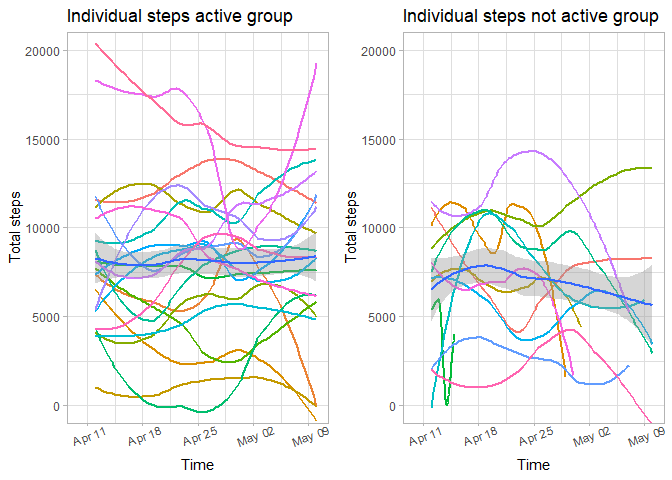
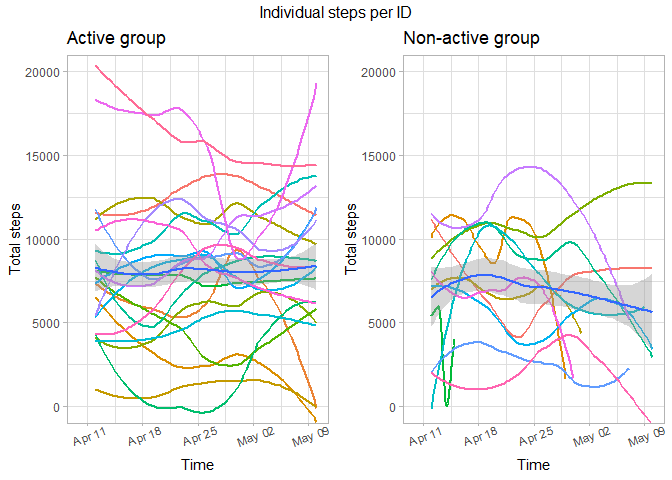
uploading final version of case study

diff --git a/README.md b/README.md
@@ -145,43 +145,43 @@ the d\_activity data frame. We will test this by using the identical
 function:
 
 ``` r
-identical(d_activity[['Calories']],d_calories[['Calories']])
+identical(as.integer(d_activity[['Calories']]),d_calories[['Calories']])
 ```
 
-    ## [1] FALSE
+    ## [1] TRUE
 
 ``` r
-identical(d_activity[['TotalSteps']],d_steps[['StepTotal']])
+identical(as.integer(d_activity[['TotalSteps']]),d_steps[['StepTotal']])
 ```
 
-    ## [1] FALSE
+    ## [1] TRUE
 
 After finding out we don’t need to use the smaller data frames, we
 compare all the columns in the d\_intensities data frame:
 
 ``` r
-identical(d_activity[['SedentaryMinutes']],d_intensities[['SedentaryMinutes']])
+identical(as.integer(d_activity[['SedentaryMinutes']]),d_intensities[['SedentaryMinutes']])
 ```
 
-    ## [1] FALSE
+    ## [1] TRUE
 
 ``` r
-identical(d_activity[['LightlyActiveMinutes']],d_intensities[['LightlyActiveMinutes']])
+identical(as.integer(d_activity[['LightlyActiveMinutes']]),d_intensities[['LightlyActiveMinutes']])
 ```
 
-    ## [1] FALSE
+    ## [1] TRUE
 
 ``` r
-identical(d_activity[['FairlyActiveMinutes']],d_intensities[['FairlyActiveMinutes']])
+identical(as.integer(d_activity[['FairlyActiveMinutes']]),d_intensities[['FairlyActiveMinutes']])
 ```
 
-    ## [1] FALSE
+    ## [1] TRUE
 
 ``` r
-identical(d_activity[['VeryActiveMinutes']],d_intensities[['VeryActiveMinutes']])
+identical(as.integer(d_activity[['VeryActiveMinutes']]),d_intensities[['VeryActiveMinutes']])
 ```
 
-    ## [1] FALSE
+    ## [1] TRUE
 
 ``` r
 identical(d_activity[['SedentaryActiveDistance']],d_intensities[['SedentaryActiveDistance']])
@@ -313,13 +313,13 @@ If we would only look at the average, than this plot confirms that
 people are also burning less calories. And since Calories would be
 burned for all types of actives, **this might indicate that people
 simply stop doing as much exercise after a while**. This might be an
-important measure for the company to know. However, when we look at the
-individual data points, we see something odd. It seems like the last
-day, everyone is doing less. This could be cause by several things when
-collecting data, including having the same time frame (instead of 24h
-maybe only data until 12Pm was used) or maybe it was a holiday (people
-might move different). To be clear we will plot the same data without
-the last day.
+important measure for the company to know. **However, when we look at
+the individual data points, we see something odd.** It seems like the
+last day, everyone is doing less. This could be cause by several things
+when collecting data, including having the same time frame (instead of
+24h maybe only data until 12Pm was used) or maybe it was a holiday
+(people might move different). To be clear we will plot the same data
+without the last day.
 
 ### Excluding last dates
 
@@ -434,10 +434,10 @@ for(i in 1:nrow(d_activity)) {
   ii<-ii+1}
 }
 
-n_distinct(active_people)
+length(active_people)
 ```
 
-    ## [1] 1
+    ## [1] 21
 
 ``` r
 #using the ID of the active people to create new variables
@@ -448,8 +448,11 @@ n_distinct(activity_not_in_use$Id)
 
     ## [1] 12
 
-Now that we have all the people that are still active, we can look at
-their data to see if it’s different from everyone grouped together.
+The outcome here says that in total we have 33 people, of those 33 21
+have collected data until the end and only 12 have not completed the
+whole collection. Now that we have all the people that are still active,
+we can look at their data to see if it’s different from everyone grouped
+together.
 
 ### Comparing 2 groups on group level
 
@@ -589,7 +592,7 @@ plot7<-ggplot(data=activity_in_use)+
   theme_light()+
   theme(axis.text.x = element_text(angle = 20),legend.position = "none")+
   xlim(as.Date('2016-04-10'), as.Date('2016-05-10'))+
-  ggtitle("Individual steps active group")+
+  ggtitle("Active group")+
   xlab("Time")+
   ylab("Total steps")
 
@@ -601,11 +604,11 @@ plot8<-ggplot(data=activity_not_in_use)+
   theme_light()+
   theme(axis.text.x = element_text(angle = 20),legend.position = "none")+
   xlim(as.Date('2016-04-10'), as.Date('2016-05-10'))+
-  ggtitle("Individual steps not active group")+
+  ggtitle("Non-active group")+
   xlab("Time")+
   ylab("Total steps")
 
-grid.arrange(plot7, plot8, ncol=2)
+grid.arrange(plot7, plot8, ncol=2, top="Individual steps per ID")
 ```
 
 ![](Bellabeat-Case-Study-with-R_files/figure-gfm/comparing%20both%20groups%20on%20individual%20level%20separated-1.png)<!-- -->
@@ -626,7 +629,7 @@ plot9<-ggplot(data=activity_in_use)+
   theme(axis.text.x = element_text(angle = 20),legend.position = "none")+
   xlim(as.Date('2016-04-10'), as.Date('2016-05-11'))+
   coord_cartesian(ylim = c(0, 400))+
-  ggtitle("Light activity, active people")+
+  ggtitle("Active people")+
   xlab("Time")+
   ylab("Minutes of activity")
 
@@ -638,7 +641,7 @@ plot10<-ggplot(data=activity_not_in_use)+
   theme(legend.position = "none")+
   xlim(as.Date('2016-04-10'), as.Date('2016-05-11'))+
   coord_cartesian(ylim = c(0, 400))+
-  ggtitle("Light activity, not-active people")+
+  ggtitle("Non-active people")+
   xlab("Time")+
   ylab("Minutes of activity")
 
@@ -649,7 +652,7 @@ plot11<-ggplot(data=activity_in_use)+
   theme(axis.text.x = element_text(angle = 20),legend.position = "none")+
   xlim(as.Date('2016-04-10'), as.Date('2016-05-11'))+
   coord_cartesian(ylim = c(0, 90))+
-  ggtitle("Medium activity, active people")+
+  ggtitle("Active people")+
   xlab("Time")+
   ylab("Minutes of activity")
 
@@ -661,7 +664,7 @@ plot12<-ggplot(data=activity_not_in_use)+
   theme(legend.position = "none")+
   xlim(as.Date('2016-04-10'), as.Date('2016-05-11'))+
   coord_cartesian(ylim = c(0, 90))+
-  ggtitle("Medium activity, not-active people")+
+  ggtitle("Non-active people")+
   xlab("Time")+
   ylab("Minutes of activity")
 
@@ -672,7 +675,7 @@ plot13<-ggplot(data=activity_in_use)+
   theme(axis.text.x = element_text(angle = 20),legend.position = "none")+
   xlim(as.Date('2016-04-10'), as.Date('2016-05-11'))+
   coord_cartesian(ylim = c(0, 110))+
-  ggtitle("Heavy activity, active people")+
+  ggtitle("Active people")+
   xlab("Time")+
   ylab("Minutes of activity")
 
@@ -684,23 +687,23 @@ plot14<-ggplot(data=activity_not_in_use)+
   theme(legend.position = "none")+
   xlim(as.Date('2016-04-10'), as.Date('2016-05-11'))+
   coord_cartesian(ylim = c(0, 110))+
-  ggtitle("Heavy activity, not-active people")+
+  ggtitle("Non-active people")+
   xlab("Time")+
   ylab("Minutes of activity")
 
-grid.arrange(plot9, plot10, ncol=2)
+grid.arrange(plot9, plot10, ncol=2, top="Light activity")
 ```
 
 ![](Bellabeat-Case-Study-with-R_files/figure-gfm/activity%20per%20individual%20per%20activity%20level-1.png)<!-- -->
 
 ``` r
-grid.arrange(plot11, plot12, ncol=2)
+grid.arrange(plot11, plot12, ncol=2, top="Medium activity")
 ```
 
 ![](Bellabeat-Case-Study-with-R_files/figure-gfm/activity%20per%20individual%20per%20activity%20level-2.png)<!-- -->
 
 ``` r
-grid.arrange(plot13, plot14, ncol=2)
+grid.arrange(plot13, plot14, ncol=2, top="Heavy activity")
 ```
 
 ![](Bellabeat-Case-Study-with-R_files/figure-gfm/activity%20per%20individual%20per%20activity%20level-3.png)<!-- -->
@@ -774,16 +777,16 @@ plot15 <-ggplot(data=int_acti_hour, aes(x=Time, y=mean_total_int)) +
   theme_light()+
   theme(axis.text.x = element_text(angle = 90)) +
   coord_cartesian(ylim = c(0, 25))+
-  labs(title="Active people\nAverage Total Intensity vs. Time")
+  labs(title="Active people")
 
 plot16 <- ggplot(data=int_not_acti_hour, aes(x=Time, y=mean_total_int)) + 
   geom_histogram(stat = "identity", fill='darkblue') +
   theme_light()+
   theme(axis.text.x = element_text(angle = 90)) +
   coord_cartesian(ylim = c(0, 25))+
-  labs(title="Non-active people\nAverage Total Intensity vs. Time")
+  labs(title="Non-active people")
 
-grid.arrange(plot15, plot16, ncol=2)
+grid.arrange(plot15, plot16, ncol=2, top="Average Total Intensity vs. Time")
 ```
 
 ![](Bellabeat-Case-Study-with-R_files/figure-gfm/intensitie%20on%20hourly%20bases%20grouped-1.png)<!-- -->
@@ -843,45 +846,45 @@ plot17 <-ggplot(data=active_1, aes(x=Time, y=mean_total_int)) + geom_histogram(s
   theme_light()+
   theme(axis.text.x = element_text(angle = 45)) +
   coord_cartesian(ylim = c(0, 25))+
-  labs(title="Active person 1\nAverage Total Intensity vs. Time")
+  labs(title="Active person 1")
 
 plot18 <-ggplot(data=active_2, aes(x=Time, y=mean_total_int)) + geom_histogram(stat = "identity", fill='darkblue') +
   theme_light()+
   theme(axis.text.x = element_text(angle = 90)) +
   coord_cartesian(ylim = c(0, 25))+
-  labs(title="Active person 2\nAverage Total Intensity vs. Time")
+  labs(title="Active person 2")
 
 plot19 <-ggplot(data=active_3, aes(x=Time, y=mean_total_int)) + geom_histogram(stat = "identity", fill='darkblue') +
   theme_light()+
   theme(axis.text.x = element_text(angle = 90)) +
   coord_cartesian(ylim = c(0, 25))+
-  labs(title="Active person 3\nAverage Total Intensity vs. Time")
+  labs(title="Active person 3")
 
 plot20 <-ggplot(data=n_active_1, aes(x=Time, y=mean_total_int)) + geom_histogram(stat = "identity", fill='darkblue') +
   theme_light()+
   theme(axis.text.x = element_text(angle = 90)) +
   coord_cartesian(ylim = c(0, 25))+
-  labs(title="Not active person 1\nAverage Total Intensity vs. Time")
+  labs(title="Non-active person 1")
 
 plot21 <-ggplot(data=n_active_2, aes(x=Time, y=mean_total_int)) + geom_histogram(stat = "identity", fill='darkblue') +
   theme_light()+
   theme(axis.text.x = element_text(angle = 90)) +
   coord_cartesian(ylim = c(0, 25))+
-  labs(title="Not active person 2\nAverage Total Intensity vs. Time")
+  labs(title="Non-active person 2")
 
 plot22 <-ggplot(data=n_active_3, aes(x=Time, y=mean_total_int)) + geom_histogram(stat = "identity", fill='darkblue') +
   theme_light()+
   theme(axis.text.x = element_text(angle = 90)) +
   coord_cartesian(ylim = c(0, 25))+
-  labs(title="Not active person 3\nAverage Total Intensity vs. Time")
+  labs(title="Non-active person 3")
 
-grid.arrange(plot17, plot18, plot19, ncol=3)
+grid.arrange(plot17, plot18, plot19, ncol=3, top="Average Total Intensity vs. Time")
 ```
 
 ![](Bellabeat-Case-Study-with-R_files/figure-gfm/intensitie%20on%20hourly%20bases%20individual-1.png)<!-- -->
 
 ``` r
-grid.arrange(plot20, plot21, plot22, ncol=3)
+grid.arrange(plot20, plot21, plot22, ncol=3, top="Average Total Intensity vs. Time")
 ```
 
 ![](Bellabeat-Case-Study-with-R_files/figure-gfm/intensitie%20on%20hourly%20bases%20individual-2.png)<!-- -->
@@ -942,7 +945,8 @@ Eyal T., Finkelstein S.
 (2010)](http://www.communicationcache.com/uploads/1/0/8/8/10887248/how_positive_and_negative_feedback_motivate_goal_pursuit.pdf),
 they say that novices prefer and are more sensitive to positive
 feedback, where experts are more likely to look for negative feedback.
-However when dealing with costumers this might not be ideal.
+However when dealing with costumers negative feedback might not be
+ideal.
 
 ### Second recommendation
 
